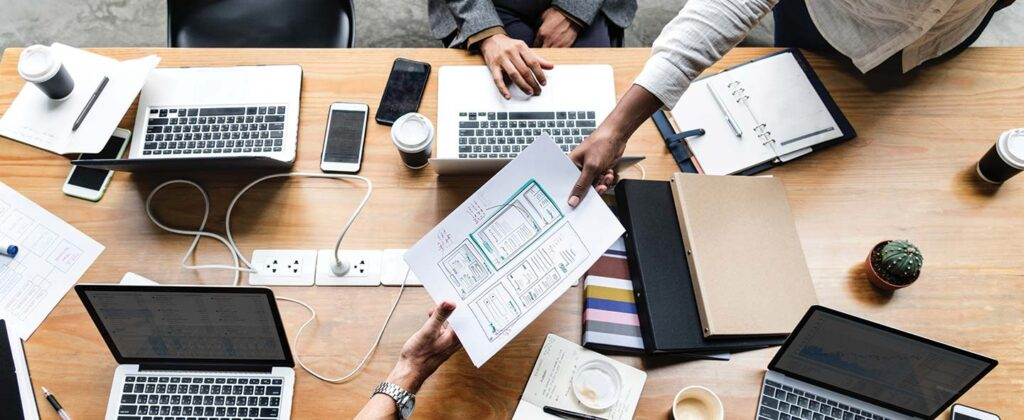
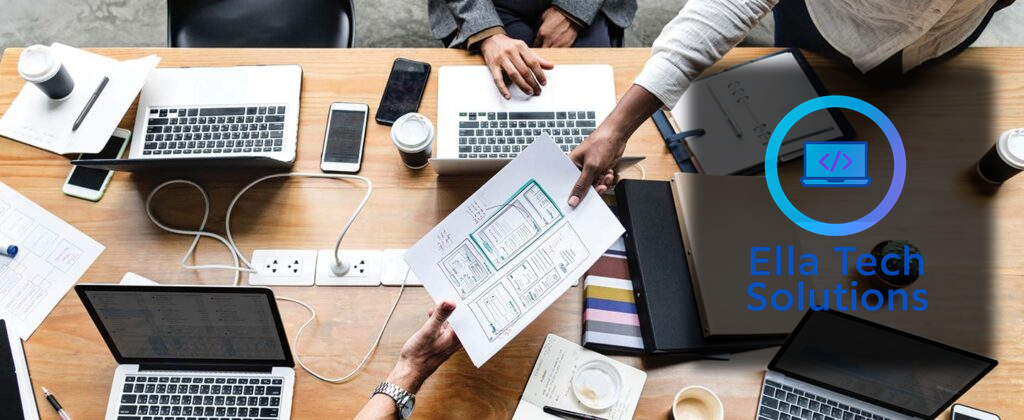
ContactBanner

Changed region(s): [[0.6562, 0.1238, 1.0, 0.8976]]

diff --git a/src/sections/Pricing.jsx b/src/sections/Pricing.jsx
@@ -13,10 +13,9 @@ function Pricing() {
 
   return (
     <Element name="pricing">
-      {/* Match site dark navy */}
       <section id="pricing" className="py-16 bg-s1">
         <div className="container mx-auto px-4">
-          {/* Header: small green line above big white title */}
+          {/* Header */}
           <div className="text-center mb-12">
             <div className="text-sm md:text-base text-p3 font-medium tracking-wide">
               Simple, transparent rates for small businesses and nonprofits.
@@ -26,23 +25,26 @@ function Pricing() {
             </h1>
           </div>
 
-          {/* Cards — 1 col on mobile, 2x2 squares from sm+ */}
-          <div className="grid grid-cols-1 sm:grid-cols-2 gap-4 sm:gap-6 mb-8 max-w-5xl mx-auto">
+          {/* Cards container */}
+          <div className="flex flex-col md:flex-row gap-4 md:gap-6 mb-8 max-w-6xl mx-auto">
             {pricingServices.map(({ id, title, price, description, details }) => {
               const isExpanded = expandedIds.includes(id);
+
               return (
                 <div
                   key={id}
-                  // Lighter card bg + Hero-like border + big radius + strong shadow
-                  // Squares only at sm+, stack naturally on mobile
-                  className="relative overflow-hidden rounded-[2rem] shadow-2xl bg-gradient-to-br from-s2 to-s1 sm:aspect-square"
+                  className="relative w-full md:flex-1 overflow-hidden rounded-[2rem] shadow-2xl bg-gradient-to-br from-s2 to-s1"
                 >
-                  {/* Border lines to match Hero */}
-                  <div className="pointer-events-none absolute inset-0 z-0 rounded-[2rem] border border-white/15" />
-                  <div className="pointer-events-none absolute inset-0 z-0 rounded-[2rem] ring-1 ring-inset ring-white/10" />
+                  <div className="absolute inset-0 z-0 rounded-[2rem] border border-white/15 pointer-events-none" />
+                  <div className="absolute inset-0 z-0 rounded-[2rem] ring-1 ring-inset ring-white/10 pointer-events-none" />
 
-                  {/* Card content */}
-                  <div className="relative z-10 h-full p-6 flex flex-col">
+                  {/* Card body */}
+                  <div
+                    className={`
+                      relative z-10 p-6 flex flex-col transition-all duration-300 ease-in-out
+                      ${isExpanded ? "min-h-[550px]" : "min-h-[430px]"}
+                    `}
+                  >
                     <h3 className="text-p4 uppercase font-bold text-xl mb-2 tracking-wide">
                       {title}
                     </h3>
@@ -51,13 +53,10 @@ function Pricing() {
                       <p className="text-p3 font-medium mb-2">{price}</p>
                     )}
 
-                    {/* Description: don’t repeat; clamp when collapsed */}
-                    <div className="mt-1 flex-1 overflow-y-auto pr-1">
-                      <p className={`text-p5 ${isExpanded ? "" : "line-clamp-3"}`}>
-                        {description}
-                      </p>
+                    {/* Visible preview text always shown */}
+                    <div className="mt-1 flex-1 pr-1">
+                      <p className="text-p5">{description}</p>
 
-                      {/* Only show details when expanded */}
                       {isExpanded && details && (
                         <ul className="mt-2 list-disc list-inside text-p5 space-y-1">
                           {details.map((item, i) => (
@@ -67,16 +66,16 @@ function Pricing() {
                       )}
                     </div>
 
-                    {/* Toggle */}
+                    {/* Button pinned bottom always */}
                     {details && (
-                      <button
-                        onClick={() => toggleExpand(id)}
-                        aria-expanded={isExpanded}
-                        aria-controls={`card-details-${id}`}
-                        className="mt-3 text-p3 font-medium hover:underline transition"
-                      >
-                        {isExpanded ? "Show Less" : "Show More"}
-                      </button>
+                      <div className="mt-auto pt-4 border-t border-white/10">
+                        <button
+                          onClick={() => toggleExpand(id)}
+                          className="text-p3 font-medium hover:underline transition"
+                        >
+                          {isExpanded ? "Show Less" : "Show More"}
+                        </button>
+                      </div>
                     )}
                   </div>
                 </div>

diff --git a/src/pages/Home.jsx b/src/pages/Home.jsx
@@ -3,6 +3,7 @@
 import React, { useEffect } from "react";
 import { useLocation } from "react-router-dom";
 import Header from "../sections/Header.jsx";
+import ContactBanner from "../sections/ContactBanner.jsx";
 import Hero from "../sections/Hero.jsx";
 import Services from "../sections/Services.jsx";
 import Pricing from "../sections/Pricing.jsx";
@@ -13,28 +14,37 @@ import Chatbot from "../sections/Chatbot.jsx";
 import Footer from "../sections/Footer.jsx";
 
 function Home() {
-    const { hash } = useLocation();
+  const { hash } = useLocation();
 
-    useEffect(() => {
-        if (hash) {
-            const el = document.getElementById(hash.replace("#", ""));
-            if (el) el.scrollIntoView({ behavior: "smooth" });
-        }
-    }, [hash]);
+  useEffect(() => {
+    if (hash) {
+      const el = document.getElementById(hash.replace("#", ""));
+      if (el) el.scrollIntoView({ behavior: "smooth" });
+    }
+  }, [hash]);
 
-    return (
-        <main className="overflow-hidden">
-            <Header />
-            <Hero />
-            <Services />
-            <Pricing />
-            <Faq />
-            <Contact />
-            <Testimonials />
-            <Chatbot />
-            <Footer />
-        </main>
-    );
+  return (
+    <>
+      <div className="fixed top-0 left-0 w-full z-50">
+        <Header />
+        <ContactBanner />
+      </div>
+
+      <main
+        className="overflow-hidden"
+        style={{ paddingTop: "140px" }} // adjust if header + banner are taller or shorter
+      >
+        <Hero />
+        <Services />
+        <Pricing />
+        <Faq />
+        <Contact />
+        <Testimonials />
+        <Chatbot />
+        <Footer />
+      </main>
+    </>
+  );
 }
 
 export default Home;

diff --git a/src/sections/ContactBanner.jsx b/src/sections/ContactBanner.jsx
@@ -1,0 +1,45 @@
+import React from "react";
+import "./ContactBanner.css";
+
+function ContactBanner() {
+  return (
+    <section className="contact-banner">
+      <div className="contact-scroll">
+        <p>
+          Schedule Your Consultation Today! Call:{" "}
+          <a href="tel:+13134741772" className="contact-link">
+            (313) 474-1772
+          </a>{" "}
+          or E-Mail:{" "}
+          <a href="mailto:info@ellatechsolutions.org" className="contact-link">
+            info@ellatechsolutions.org
+          </a>{" "}
+          for more information.
+          <span className="spacer">    </span>
+          Schedule Your Consultation Today! Call:{" "}
+          <a href="tel:+13134741772" className="contact-link">
+            (313) 474-1772
+          </a>{" "}
+          or E-Mail:{" "}
+          <a href="mailto:info@ellatechsolutions.org" className="contact-link">
+            info@ellatechsolutions.org
+          </a>{" "}
+          for more information.
+          <span className="spacer">    </span>
+          Schedule Your Consultation Today! Call:{" "}
+          <a href="tel:+13134741772" className="contact-link">
+            (313) 474-1772
+          </a>{" "}
+          or E-Mail:{" "}
+          <a href="mailto:info@ellatechsolutions.org" className="contact-link">
+            info@ellatechsolutions.org
+          </a>{" "}
+          for more information.
+          <span className="spacer">    </span>
+        </p>
+      </div>
+    </section>
+  );
+}
+
+export default ContactBanner;

diff --git a/src/sections/ContactBanner.css b/src/sections/ContactBanner.css
@@ -1,0 +1,42 @@
+.contact-banner {
+  background-color: #00E0FF; /* bright aqua brand color */
+  color: #0A2540; /* dark navy text */
+  overflow: hidden;
+  white-space: nowrap;
+  padding: 8px 0;
+  font-size: 1rem;
+  font-weight: 700;
+  letter-spacing: 0.5px;
+  box-shadow: 0px 2px 6px rgba(0,0,0,0.18);
+}
+
+/* marquee animation */
+.contact-scroll {
+  display: inline-block;
+  animation: scrollBanner 35s linear infinite; /* slowed from 20s to 28s */
+}
+
+@keyframes scrollBanner {
+  from {
+    transform: translateX(100%);
+  }
+  to {
+    transform: translateX(-100%);
+  }
+}
+
+/* clickable links */
+.contact-link {
+  color: inherit;
+  text-decoration: underline;
+}
+
+.contact-link:hover {
+  opacity: 0.8;
+}
+
+/* extra spacing between full calls-to-action */
+.spacer {
+  display: inline-block;
+  width: 4rem; /* adjust to widen or tighten gap */
+}

diff --git a/src/constants/index.jsx b/src/constants/index.jsx
@@ -17,7 +17,7 @@ export const services = [
     id: "1",
     icon: "/images/feature-2.png",
     caption: "Simplify. Automate. Grow.",
-    title: "Technology Consulting & Automation",
+    title: "Technology Consulting & Training",
     text: "We help you choose and use the right tech to save time and reduce hassle. From automation to AI tools, we streamline your systems. Ideal for teams ready to grow without the tech stress.",
     button: {
       icon: "/images/docs.svg",

diff --git a/src/sections/Header.jsx b/src/sections/Header.jsx
@@ -27,7 +27,7 @@ const Header = () => {
   return (
       <header
           className={clsx(
-              "fixed top-0 left-0 z-50 w-full py-10 transition-all duration-500 max-lg:py-4",
+              "w-full py-10 transition-all duration-500 max-lg:py-4",
               hasScrolled && "py-2 bg-black-100 backdrop-blur-[8px]"
           )}
       >
